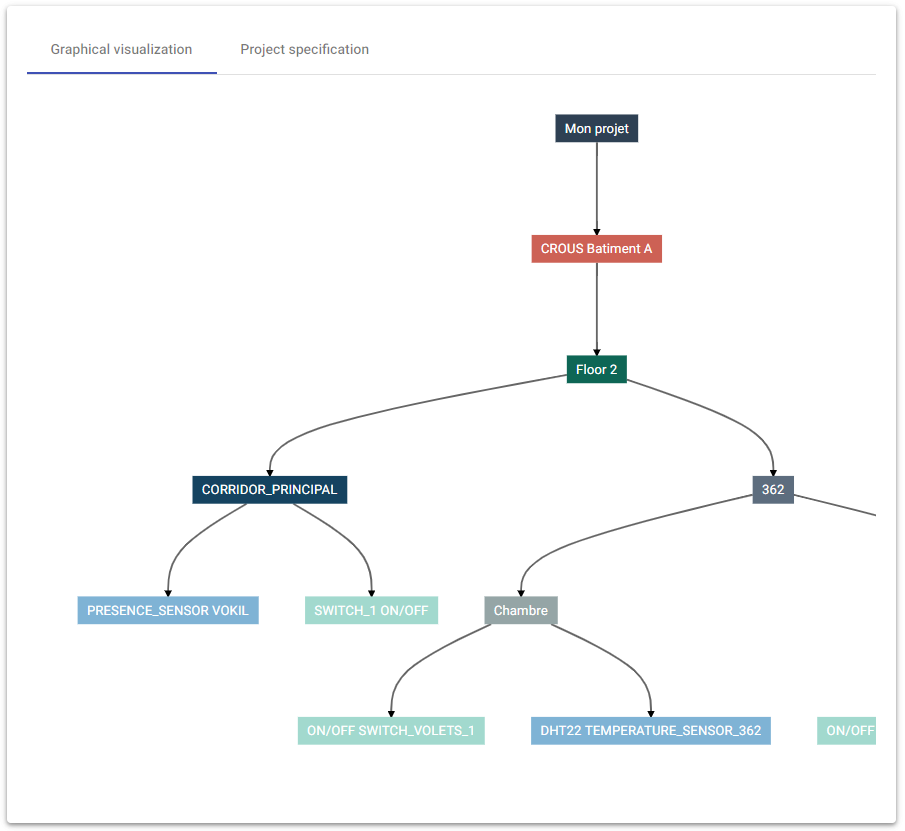
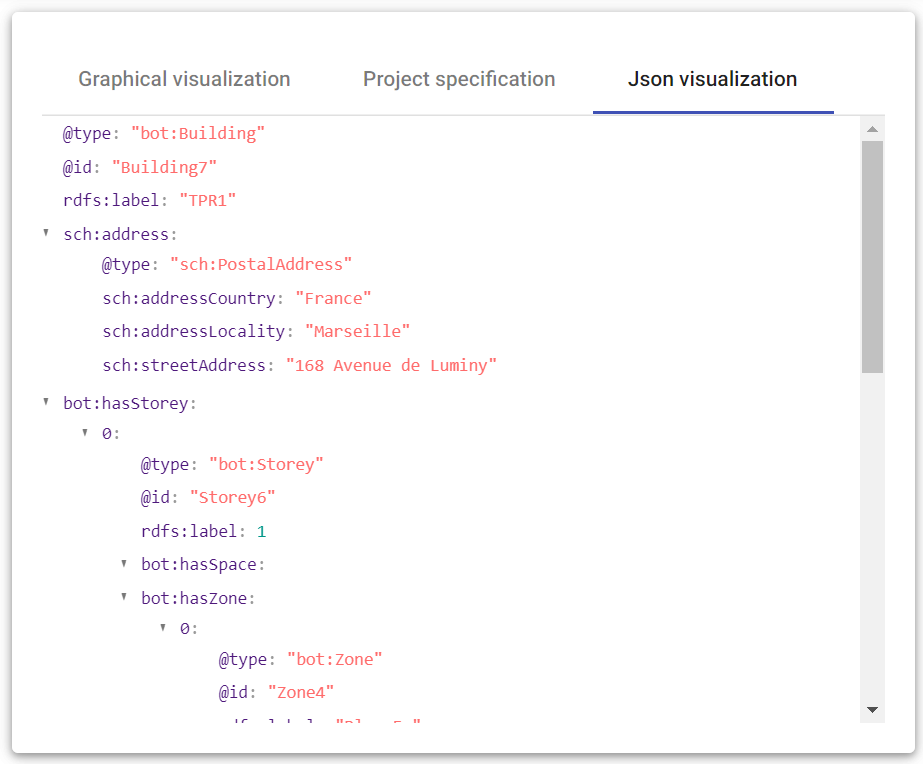
Add Json visualization

diff --git a/src/app/home/tuto-domotic/tuto-domotic.component.html b/src/app/home/tuto-domotic/tuto-domotic.component.html
@@ -165,7 +165,10 @@
         Second, you have the tab named <strong>"Graphical visualization"</strong>, when you click on it, it allows you to visualize an hierarchical view of your project specification,
         starting with the building to sensor and actuator, all the modifications you make in the tree-view are seen at real-time in this graph.
         </p>
-        <!-- ADD_IMAGE_TAB_VIEW_HERE -->
+        <p>
+         Third, you have the tab named <strong>"Json visualization"</strong>, when you click on it, it allows you to visualize the Json-ld view of the current entity specifications with the semantic annotations.
+
+        </p>
       </div>
     </div>
   </div>
